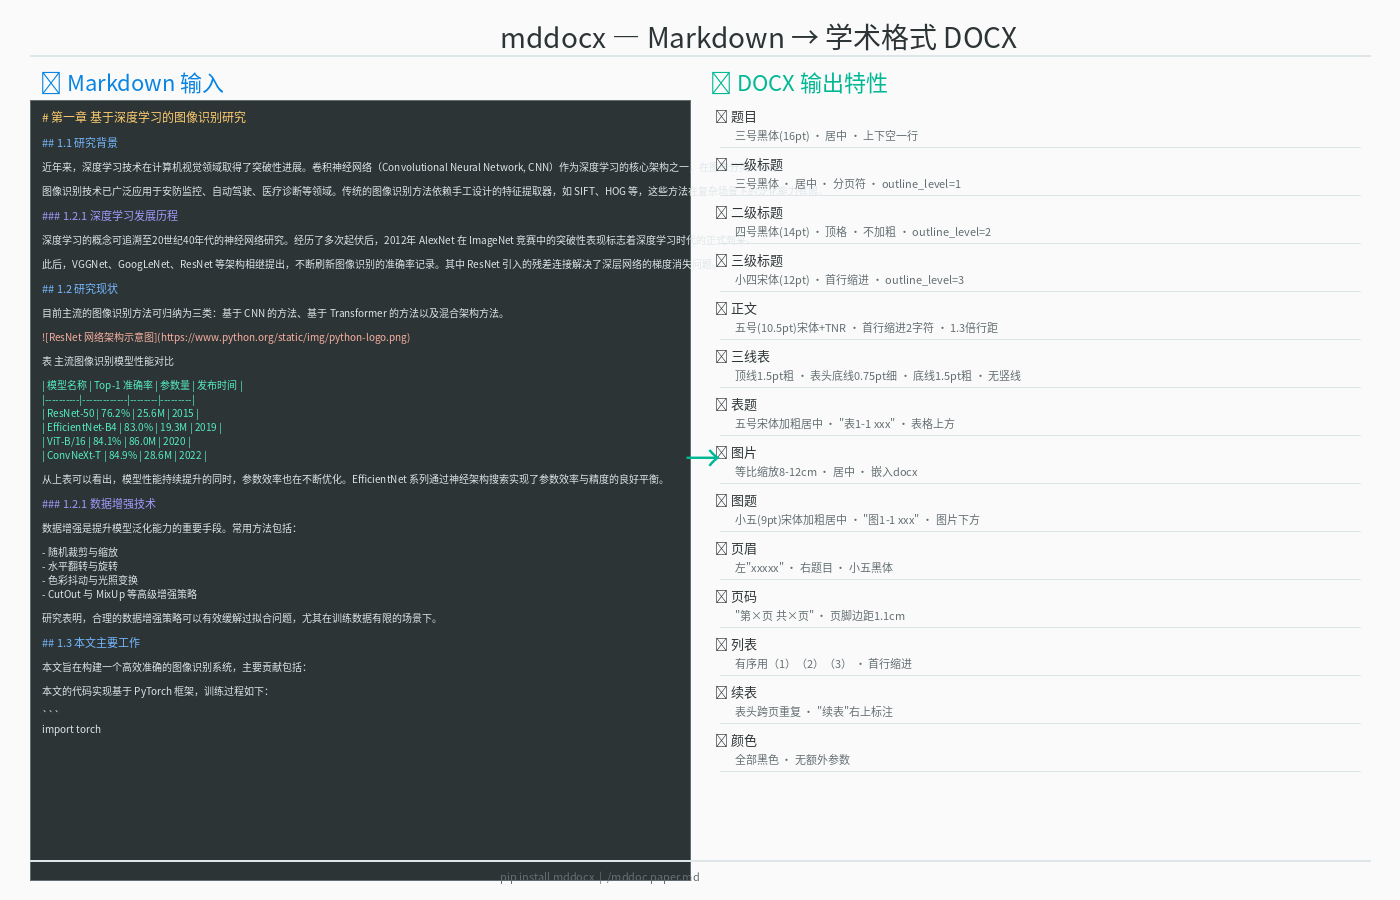
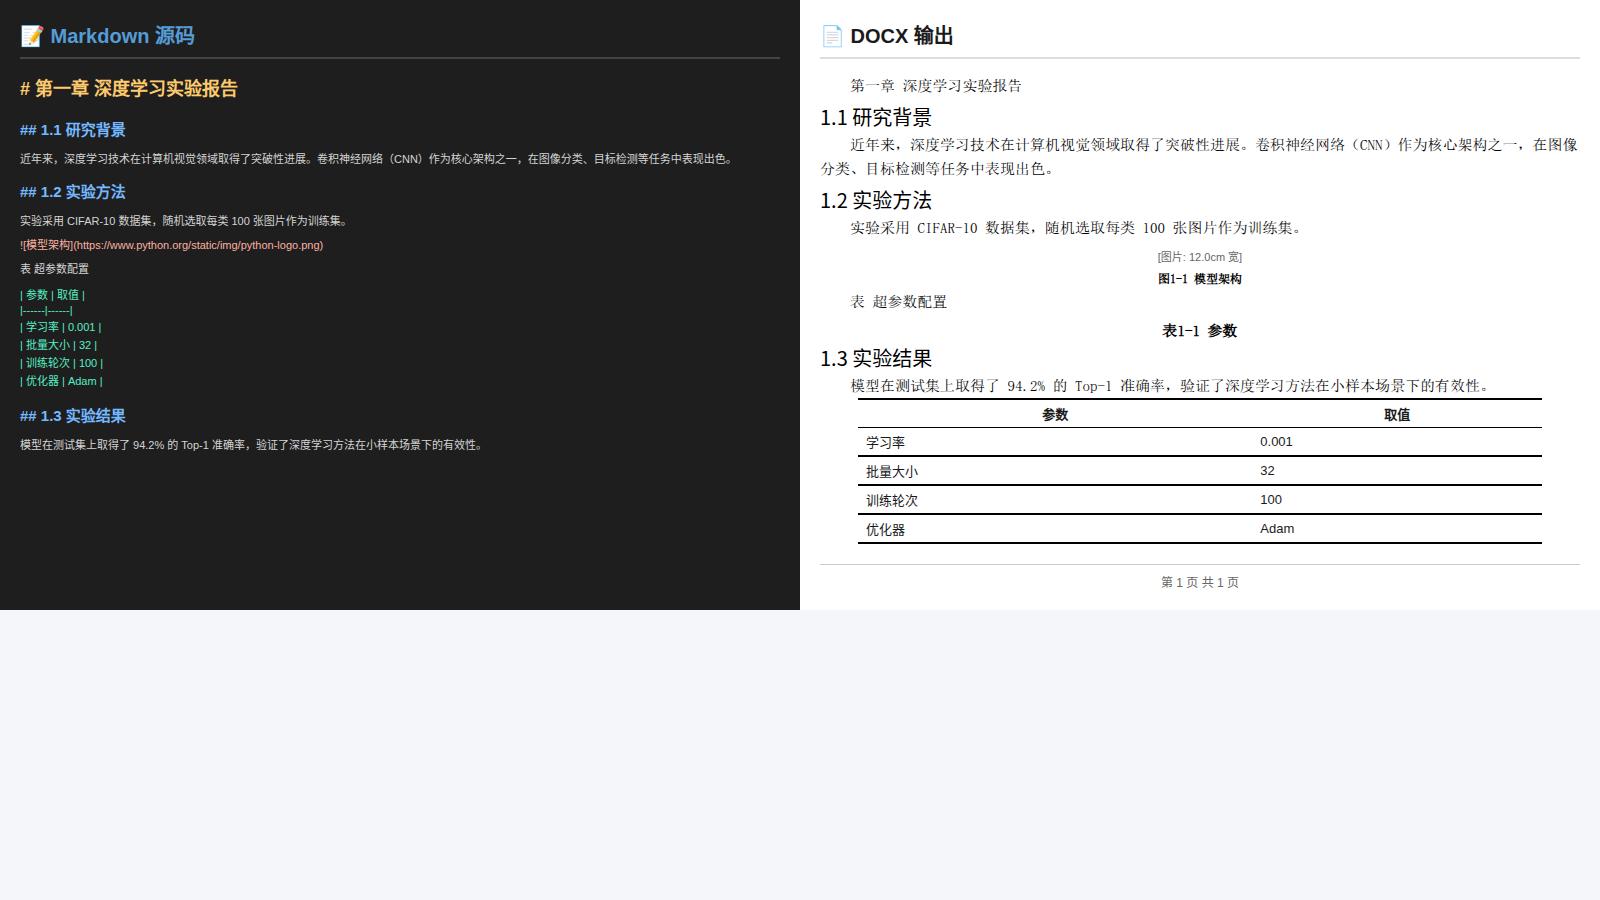
chore: update repo URL to Trisia/mddocx, add badges, fix comparison image
- Update all URLs from YOUR_USERNAME to Trisia
- Add Claude Code/Codex/OpenCode/Version/License/Python badges
- Regenerate comparison image with real HTML rendering
- Remove logo reference from Codex plugin (no logo yet)

Changed region(s): [[0.0, 0.0, 0.9829, 0.9956], [0.7064, 0.6222, 0.7986, 0.6533], [0.6143, 0.7156, 0.645, 0.7467]]

diff --git a/.opencode/INSTALL.md b/.opencode/INSTALL.md
@@ -7,7 +7,7 @@
 ```json
 {
   "plugins": [
-    "git:https://github.com/YOUR_USERNAME/mddocx"
+    "git:https://github.com/Trisia/mddocx"
   ]
 }
 ```